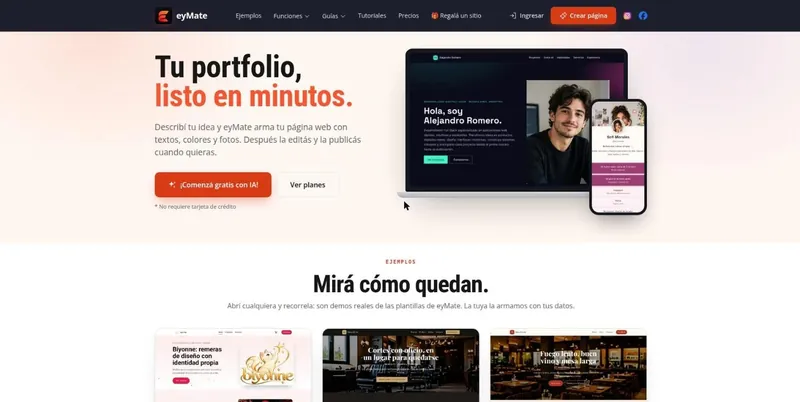
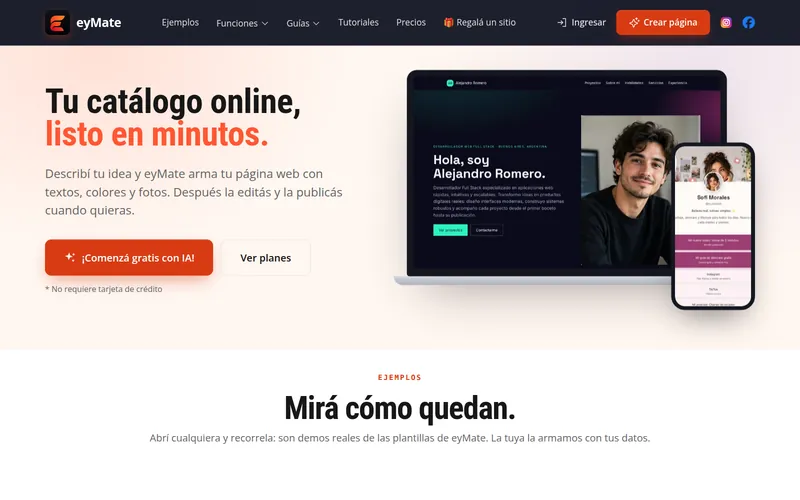
Portfolio y caso: capturas al ras, sin marco de navegador
- La imagen ocupa todo el ancho de la tarjeta, sin barra ni fondo.
- Nueva captura de eyMate en 16:10 (antes 2:1); QuericoRosario y
  OctoMateLabs ajustadas a 1600x1000 para que las 4 queden parejas.
- Prueba e2e: imágenes al ras, enteras y sin marco.

diff --git a/src/config/portfolio.ts b/src/config/portfolio.ts
@@ -24,7 +24,7 @@ export interface PortfolioItem {
 
 export const portfolio: PortfolioItem[] = [
   {
-    id: 'eymate', name: 'eyMate', href: 'https://eymate.site/', host: 'eymate.site', img: '/images/portfolio/eymate.webp', imgW: 1552, imgH: 780, tone: 'sage',
+    id: 'eymate', name: 'eyMate', href: 'https://eymate.site/', host: 'eymate.site', img: '/images/portfolio/eymate.webp', imgW: 1600, imgH: 1000, tone: 'sage',
     cat: t('Creación web', 'Website builder'),
     desc: t('Creá el sitio de tu negocio con un editor visual y herramientas de inteligencia artificial, y publicalo con tu dominio.', 'Build your business website with a visual editor and AI tools, and publish it on your own domain.'),
     cta: t('Conocer eyMate', 'Explore eyMate'),
@@ -39,14 +39,14 @@ export const portfolio: PortfolioItem[] = [
     app: { href: 'https://play.google.com/store/apps/details?id=site.mateturnos.app', cta: t('App para Android en Google Play', 'Android app on Google Play') },
   },
   {
-    id: 'quericorosario', name: 'QuericoRosario', href: 'https://quericorosario.com/', host: 'quericorosario.com', img: '/images/portfolio/quericorosario.webp', imgW: 1600, imgH: 1011, tone: 'sand',
+    id: 'quericorosario', name: 'QuericoRosario', href: 'https://quericorosario.com/', host: 'quericorosario.com', img: '/images/portfolio/quericorosario.webp', imgW: 1600, imgH: 1000, tone: 'sand',
     cat: t('Guía gastronómica · Mapa', 'Dining guide · Map'),
     desc: t('Descubrí bares, cafés y restaurantes de Rosario en un mapa interactivo, con fotos, cartas y contacto directo.', 'Discover bars, cafés and restaurants in Rosario on an interactive map, with photos, menus and direct contact.'),
     cta: t('Explorar QuericoRosario', 'Explore QuericoRosario'),
     alt: t('Página de inicio de QuericoRosario: «¿Dónde comemos hoy?», con buscador y mapa de Rosario', 'QuericoRosario home page: «¿Dónde comemos hoy?», with search and a map of Rosario'),
   },
   {
-    id: 'octomatelabs', name: 'OctoMateLabs', href: 'https://octomatelabs.site/', host: 'octomatelabs.site', img: '/images/portfolio/octomatelabs.webp', imgW: 1600, imgH: 1011, tone: 'night',
+    id: 'octomatelabs', name: 'OctoMateLabs', href: 'https://octomatelabs.site/', host: 'octomatelabs.site', img: '/images/portfolio/octomatelabs.webp', imgW: 1600, imgH: 1000, tone: 'night',
     cat: t('Plataforma de inteligencia artificial', 'AI platform'),
     desc: t('Distintos modelos de IA, conversaciones y agentes especializados desde una misma cuenta, con pago en pesos.', 'Multiple AI models, conversations and specialized agents from one account, payable in Argentine pesos.'),
     cta: t('Conocer OctoMateLabs', 'Explore OctoMateLabs'),

diff --git a/tests/e2e/landing.spec.ts b/tests/e2e/landing.spec.ts
@@ -118,15 +118,16 @@ test('menús del header (escritorio): se despliegan al pasar el mouse en todas l
   await expect(page.locator('#mega-servicios')).toBeHidden();
 });
 
-test('portfolio: las capturas de los sitios se ven enteras, sin cortes', async ({ page }) => {
+test('portfolio y caso: capturas al ras, enteras y sin marco', async ({ page }) => {
   await page.goto('/');
-  const gaps = await page.$$eval('.pf', (cards) => cards.map((c) => {
-    const m = c.querySelector('.pf__media')!.getBoundingClientRect();
-    const f = c.querySelector('.pf__frame')!.getBoundingClientRect();
-    return Math.min(f.top - m.top, m.bottom - f.bottom, f.left - m.left, m.right - f.right);
+  const res = await page.$$eval('.pf__media, .cs__media', (els) => els.map((m) => {
+    const img = m.querySelector('img')!;
+    const r = m.getBoundingClientRect(), i = img.getBoundingClientRect();
+    return { frame: !!m.querySelector('.pf__frame, .cs__frame, .pf__bar, .cs__bar'), flush: Math.abs(i.width - r.width) <= 2 && Math.abs(i.left - r.left) <= 1,
+      whole: Math.abs(i.height - i.width * 1000 / 1600) <= 2 && i.bottom <= r.bottom + 1 && i.top >= r.top - 1 };
   }));
-  expect(gaps).toHaveLength(4);
-  for (const g of gaps) expect(g).toBeGreaterThanOrEqual(8);
+  expect(res).toHaveLength(5);
+  for (const x of res) expect(x).toEqual({ frame: false, flush: true, whole: true });
 });
 
 test.describe('formulario de contacto (API simulada)', () => {
